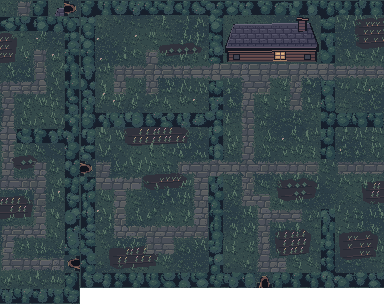
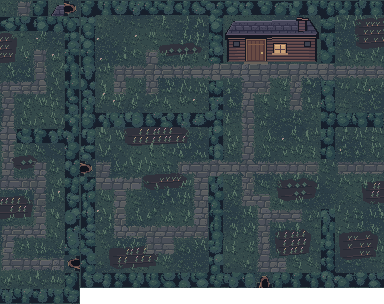
[T10] Stage the farmer behind the farmhouse window and door

Changed region(s): [[0.5625, 0.0592, 0.8438, 0.2368], [0.1562, 0.0, 0.1875, 0.0296], [0.125, 0.0296, 0.1562, 0.0592]]

diff --git a/game/src/morningWorld.ts b/game/src/morningWorld.ts
@@ -2,7 +2,8 @@
 import * as Phaser from 'phaser';
 import { solidGrid, tilesOf, type FarmDef, type Tile, type WorldState } from '@gnome-heist/core';
 import { MIN_CAMERA_ZOOM, TILE_PX } from './constants.ts';
-import { MORNING_WORK_MS, type MorningBeat } from './morningSequence.ts';
+import { farmhouseOpenings } from './farmhouse.ts';
+import { MORNING_OPENING_MS, MORNING_WORK_MS, type MorningBeat } from './morningSequence.ts';
 
 const DAYLIGHT = [
   { name: 'peach', color: 0xd1ad83, strength: 0.38 },
@@ -18,9 +19,10 @@ const clamp = Phaser.Math.Clamp;
 export class MorningWorld {
   private readonly actor: Phaser.GameObjects.Sprite;
   private readonly light: Phaser.GameObjects.Graphics;
-  private readonly window: Phaser.GameObjects.Graphics;
+  private readonly facade: Phaser.GameObjects.Graphics;
+  private readonly windowHead: Phaser.GameObjects.Sprite;
   private readonly effects: Phaser.GameObjects.Graphics;
-  private readonly windowTile: Tile;
+  private readonly openings: ReturnType<typeof farmhouseOpenings>;
   private readonly gates = new Map<number, string>();
   private solid: boolean[] = [];
   private route: Tile[] = []; // World-pixel waypoints, including the final work stance.
@@ -34,13 +36,15 @@ export class MorningWorld {
   private normalZoom = MIN_CAMERA_ZOOM;
 
   constructor(private readonly scene: Phaser.Scene, private readonly farm: FarmDef) {
-    this.windowTile = farm.windowSight[0]?.rect ?? { x: Math.floor(farm.width / 2), y: 4 };
+    this.openings = farmhouseOpenings(farm);
     for (const gate of farm.gates) for (const tile of tilesOf(gate)) {
       this.gates.set(tile.y * farm.width + tile.x, gate.id);
     }
     this.actor = scene.add.sprite(0, 0, 'morning-farmer', 0).setDisplaySize(19, 26).setOrigin(0.5, 0.94).setVisible(false);
     this.effects = scene.add.graphics().setVisible(false);
-    this.window = scene.add.graphics().setDepth(7000).setVisible(false);
+    this.facade = scene.add.graphics().setDepth(9).setVisible(false);
+    this.windowHead = scene.add.sprite(0, 0, 'morning-farmer', 0).setDisplaySize(13, 17)
+      .setOrigin(0.5, 0).setCrop(0, 6, 96, 52).setDepth(9.1).setVisible(false);
     this.light = scene.add.graphics().setDepth(8000).setBlendMode(Phaser.BlendModes.ADD).setVisible(false);
   }
 
@@ -53,21 +57,22 @@ export class MorningWorld {
     for (const object of [...this.farm.pedestals, ...this.farm.lampPosts]) {
       for (const tile of tilesOf(object)) this.solid[tile.y * this.farm.width + tile.x] = true;
     }
-    this.actor.setPosition(center(this.windowTile.x), center(this.windowTile.y) - 9).setFrame(0).setFlipX(false);
+    this.setEntrancePose(0);
     const variation = Math.floor(Math.random() * (DAYLIGHT.length - 1)) + 1;
     this.lightIndex = ((this.lightIndex < 0 ? night : this.lightIndex) + variation) % DAYLIGHT.length;
     const sun = DAYLIGHT[this.lightIndex]!;
     this.light.clear().fillStyle(sun.color, sun.strength)
       .fillRect(0, 0, this.farm.width * TILE_PX, this.farm.height * TILE_PX).setVisible(true);
-    this.window.setVisible(true);
+    this.facade.setVisible(true);
     this.effects.setVisible(true);
     this.scene.cameras.main.stopFollow();
-    this.aimCamera();
+    this.aimCamera(0);
   }
 
   clear(): void {
-    this.actor.setVisible(false).setRotation(0);
-    this.window.clear().setVisible(false);
+    this.actor.setVisible(false).setRotation(0).setCrop();
+    this.facade.clear().setVisible(false);
+    this.windowHead.setVisible(false);
     this.effects.clear().setVisible(false);
     if (this.light.visible) this.scene.cameras.main.setZoom(this.normalZoom);
     this.light.setVisible(false);
@@ -95,6 +100,7 @@ export class MorningWorld {
     const lamp = beat.work?.prop === 'lamp' && beat.site !== null;
     const cue = [beat.stage, beat.index, beat.trace?.id, beat.work?.type, beat.site?.x, beat.site?.y].join('/');
     if (cue !== this.lastCue) {
+      if (this.lastCue.startsWith('opening/') && beat.stage !== 'opening') this.setEntrancePose(MORNING_OPENING_MS);
       this.lastCue = cue;
       if (beat.stage === 'work') { this.hits = 0; this.mounted = false; }
       if (beat.stage === 'inspect' || (beat.stage === 'work' && lamp)) {
@@ -105,15 +111,15 @@ export class MorningWorld {
       }
     }
     this.effects.clear();
-    const atWindow = beat.stage === 'opening' || beat.stage === 'waiting';
-    this.window.clear();
-    if (atWindow) this.drawWindow(beat);
-    this.actor.setVisible(!atWindow || (beat.stage === 'opening' && beat.elapsed >= 1700) || beat.stage === 'waiting');
+    const opening = beat.stage === 'opening';
+    const t = opening ? beat.elapsed : MORNING_OPENING_MS;
+    this.drawFacade(t);
+    if (opening) this.setEntrancePose(t);
     this.walking = this.route.length > 0;
     if (this.walking) {
       this.walk(deltaMs);
       this.actor.setFrame(1 + Math.floor(this.distance / 5) % 2);
-    } else {
+    } else if (!opening) {
       if (this.focus) this.actor.setFlipX(this.actor.x > center(this.focus.x));
       this.actor.setFrame(0);
     }
@@ -126,42 +132,65 @@ export class MorningWorld {
       const x = center(this.focus.x), y = center(this.focus.y);
       for (const dx of [-5, 0, 5]) this.effects.fillStyle(0x4f443a).fillRect(x + dx, y + (dx === 0 ? 2 : 0), 2, 2);
     }
-    this.aimCamera();
+    const pan = opening ? clamp((t - 1400) / 1150, 0, 1) : 1;
+    this.aimCamera(pan * pan * (3 - 2 * pan));
     return !this.walking;
   }
 
-  private drawWindow(beat: MorningBeat): void {
-    const t = beat.stage === 'opening' ? beat.elapsed : 3000;
-    const x = center(this.windowTile.x), y = this.windowTile.y * TILE_PX - 11;
-    const open = clamp((t - 160) / 480, 0, 1);
-    const shutter = Math.round(4 * (1 - open));
-    const g = this.window;
-    g.fillStyle(0x3c322d).fillRect(x - 4, y, 8, 6);
-    if (shutter) g.fillStyle(0x5a604b).fillRect(x - 4, y, shutter, 6).fillRect(x + 4 - shutter, y, shutter, 6);
-    if (open > 0) {
-      g.fillStyle(0x747058).fillRect(x - 5 - open, y, 1 + open, 6).fillRect(x + 4, y, 1 + open, 6);
-      if (t > 430 && t < 1510) {
-        const look = t < 990 ? 1 : -1;
-        g.fillStyle(0xd3a36a).fillRect(x - 1, y + 2, 3, 3);
-        g.fillStyle(0xd49a49).fillRect(x - 2, y + 1, 4, 1).fillRect(x - 2 + look, y + 2, 5, 1);
-        g.fillStyle(0x40342f).fillRect(x + look, y + 3, 1, 1);
-      }
+  private drawFacade(elapsed: number): void {
+    const { window, door } = this.openings;
+    const g = this.facade.clear();
+    const open = clamp((elapsed - 150) / 360, 0, 1);
+    const remaining = Math.round(window.width / 2 * (1 - open));
+    const { x, y, width, height } = window;
+    g.fillStyle(0x30272b).fillRect(x, y, width, height);
+    if (remaining > 0) {
+      g.fillStyle(0x665347).fillRect(x, y, remaining, height).fillRect(x + width - remaining, y, remaining, height);
     }
-    if (beat.stage === 'opening' && t >= 1660) {
-      // The window and thresholds share one facade. Step out onto the south path.
-      const p = clamp((t - 1660) / 650, 0, 1);
-      this.actor.y = center(this.windowTile.y) - (1 - p) * 9;
-      this.actor.setAlpha(p);
-    } else this.actor.setAlpha(1);
+    const swing = Math.round(3 * open);
+    if (swing > 0) {
+      g.fillStyle(0x605749).fillRect(x - swing - 1, y, swing, height).fillRect(x + width + 1, y, swing, height);
+      g.fillStyle(0x8f765b).fillRect(x - swing - 1, y + 1, swing, 1).fillRect(x + width + 1, y + 1, swing, 1);
+    }
+    this.windowHead.setPosition(x + width / 2, y).setFlipX(elapsed >= 965)
+      .setVisible(elapsed >= 510 && elapsed < 1460);
+
+    // The closed leaf is painted into the farm atlas. Project its width as it swings inward.
+    const angle = Math.min(clamp((elapsed - 1510) / 280, 0, 1), clamp((2880 - elapsed) / 320, 0, 1));
+    if (angle > 0) {
+      const leaf = Math.max(2, Math.round(door.width * (1 - angle)));
+      g.fillStyle(0x211e27).fillRect(door.x, door.y, door.width, door.height);
+      g.fillStyle(0x694b44).fillRect(door.x, door.y, leaf, door.height);
+      g.fillStyle(0x805b47).fillRect(door.x, door.y + 4, leaf, 1);
+      if (leaf > 3) g.fillStyle(0xc0a26e).fillRect(door.x + leaf - 3, door.y + 12, 2, 2);
+    }
   }
 
-  private aimCamera(): void {
+  private setEntrancePose(elapsed: number): void {
+    const { door, yardY } = this.openings;
+    const threshold = door.y + door.height;
+    const p = clamp((elapsed - 1810) / 720, 0, 1);
+    const y = Phaser.Math.Linear(threshold - 5, yardY, p);
+    const frame = p > 0 && p < 1 ? 1 + Math.floor(p * 6) % 2 : 0;
+    const actor = this.actor.setPosition(door.x + door.width / 2, y).setFrame(frame)
+      .setFlipX(false).setVisible(elapsed >= 1810);
+    // Keep the opaque sprite occluded by the lintel until he clears the doorway.
+    const top = y - actor.displayHeight * actor.originY;
+    const clip = clamp(Math.ceil((door.y - top) / actor.scaleY), 0, actor.frame.height - 1);
+    if (clip > 0) actor.setCrop(0, clip, actor.frame.width, actor.frame.height - clip);
+    else actor.setCrop();
+  }
+
+  private aimCamera(doorBlend: number): void {
     const cam = this.scene.cameras.main;
     const { width, height } = this.scene.scale;
     // Keep the farmer above the caption strip at all aspect ratios.
     const zoom = Math.max(MIN_CAMERA_ZOOM, Math.ceil(width / (this.farm.width * TILE_PX)),
       Math.ceil(height / (this.farm.height * TILE_PX)));
-    cam.setZoom(zoom).centerOn(this.actor.x, this.actor.y - 12 + height / zoom * 0.08);
+    const { window } = this.openings;
+    const x = Phaser.Math.Linear(window.x + window.width / 2, this.actor.x, doorBlend);
+    const y = Phaser.Math.Linear(window.y + window.height, this.actor.y, doorBlend);
+    cam.setZoom(zoom).centerOn(x, y - 12 + height / zoom * 0.08);
   }
 
   private routeBeside(site: Tile, lamp: boolean): Tile[] {

diff --git a/game/src/entryShot.ts b/game/src/entryShot.ts
@@ -2,6 +2,7 @@
 import * as Phaser from 'phaser';
 import type { FarmDef, Tile } from '@gnome-heist/core';
 import { TILE_PX } from './constants.ts';
+import { farmhouseOpenings } from './farmhouse.ts';
 
 export const ESTATE_TIMING = { dusk: 650, push: 1300, crawl: 2100, end: 3100 } as const;
 
@@ -107,18 +108,13 @@ export class EntryShot {
       // Add a muted green-gold light while retaining the underlying pixel contrast.
       this.daylight.clear().setVisible(true).fillStyle(0x9aab65, 0.48 * (1 - dusk))
         .fillRect(0, 0, width, height);
-      // The farmhouse art occupies rows 1–3; make-night-art.mjs puts its pane
-      // at eaves + 2, centered on the windowSight column.
-      const sight = this.farm.windowSight[0];
-      const windowX = sight ? (sight.rect.x + 0.5) * TILE_PX : width / 2;
-      const windowY = 3 * TILE_PX + 5;
+      const { window: { x, y, width: paneW, height: paneH } } = farmhouseOpenings(this.farm);
       const pane = this.window.clear().setVisible(true);
       const overview = 1 - smoothstep((elapsedMs - 1900) / 700);
-      pane.fillStyle(0x222f3b, (1 - windowLight) * overview).fillRect(windowX - 4, windowY, 8, 5);
-      pane.fillStyle(0xe6a963, windowLight * overview).fillRect(windowX - 4, windowY, 8, 5);
-      pane.fillStyle(0xffd98e, windowLight * overview).fillRect(windowX - 3, windowY, 3, 2).fillRect(windowX + 1, windowY + 1, 2, 2);
-      pane.fillStyle(0x55404a, overview).fillRect(windowX, windowY - 1, 1, 7).fillRect(windowX - 4, windowY + 2, 8, 1);
-
+      pane.fillStyle(0x222f3b, (1 - windowLight) * overview).fillRect(x, y, paneW, paneH);
+      pane.fillStyle(0xe6a963, windowLight * overview).fillRect(x, y, paneW, paneH);
+      pane.fillStyle(0xffd98e, windowLight * overview).fillRect(x + 1, y + 1, 3, 2).fillRect(x + 6, y + 2, 2, 2);
+      pane.fillStyle(0x55404a, overview).fillRect(x + paneW / 2, y, 1, paneH).fillRect(x, y + paneH / 2, paneW, 1);
     }
   }
 

diff --git a/game/src/farmhouse.ts b/game/src/farmhouse.ts
@@ -1,0 +1,13 @@
+// AI-use disclosure: Codex aligned the farmhouse animation with the generated facade under Hao's direction.
+import type { FarmDef } from '@gnome-heist/core';
+import facade from '@gnome-heist/maps/farmhouse-facade.json';
+import { TILE_PX } from './constants.ts';
+
+/** Pixel openings measured from the center of the window sightline at the house frontage. */
+export function farmhouseOpenings(farm: FarmDef) {
+  const sight = farm.windowSight[0]?.rect;
+  const x = ((sight?.x ?? Math.floor(farm.width / 2)) + 0.5) * TILE_PX;
+  const y = (sight?.y ?? 4) * TILE_PX;
+  const place = (opening: typeof facade.window) => ({ ...opening, x: x + opening.x, y: y + opening.y });
+  return { window: place(facade.window), door: place(facade.door), yardY: y + TILE_PX / 2 };
+}
